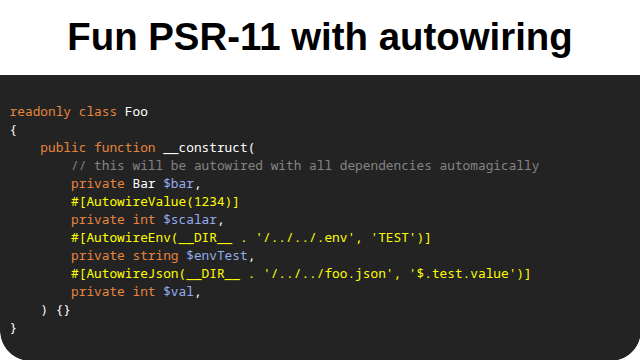
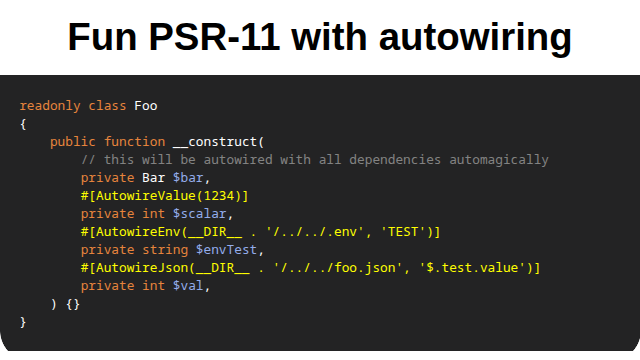
Potentially fixed dependency-injection

diff --git a/img/projects/php/dependency-injection.html b/img/projects/php/dependency-injection.html
@@ -31,7 +31,7 @@
     }
 </style>
 <h1>Fun PSR-11 with autowiring</h1>
-<pre style="padding: 0.6rem; background-color: #232324; color: white; font-size: 0.8rem">
+<pre style="padding: 0.2rem; padding-left: 1.2rem; background-color: #232324; color: white; font-size: 0.8rem">
 <code>
 <span class="keyword">readonly class</span> Foo
 {
